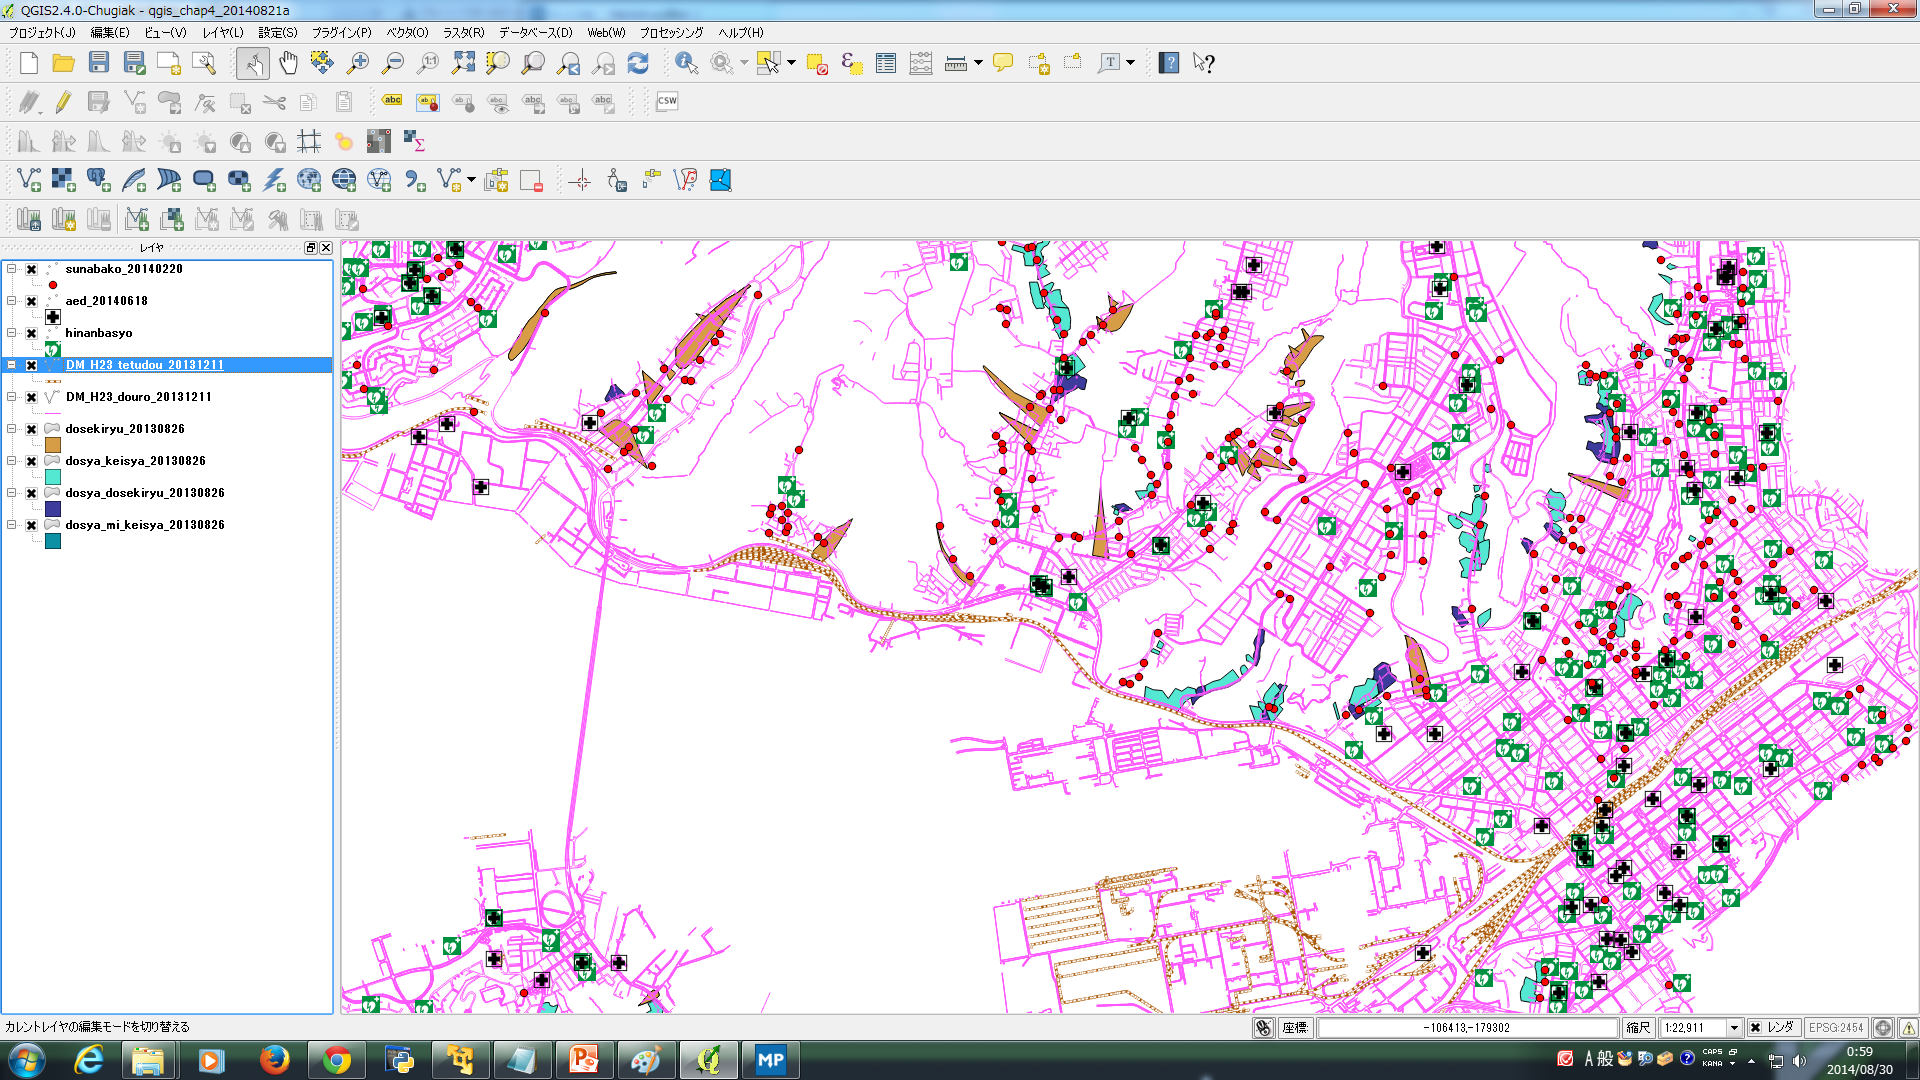
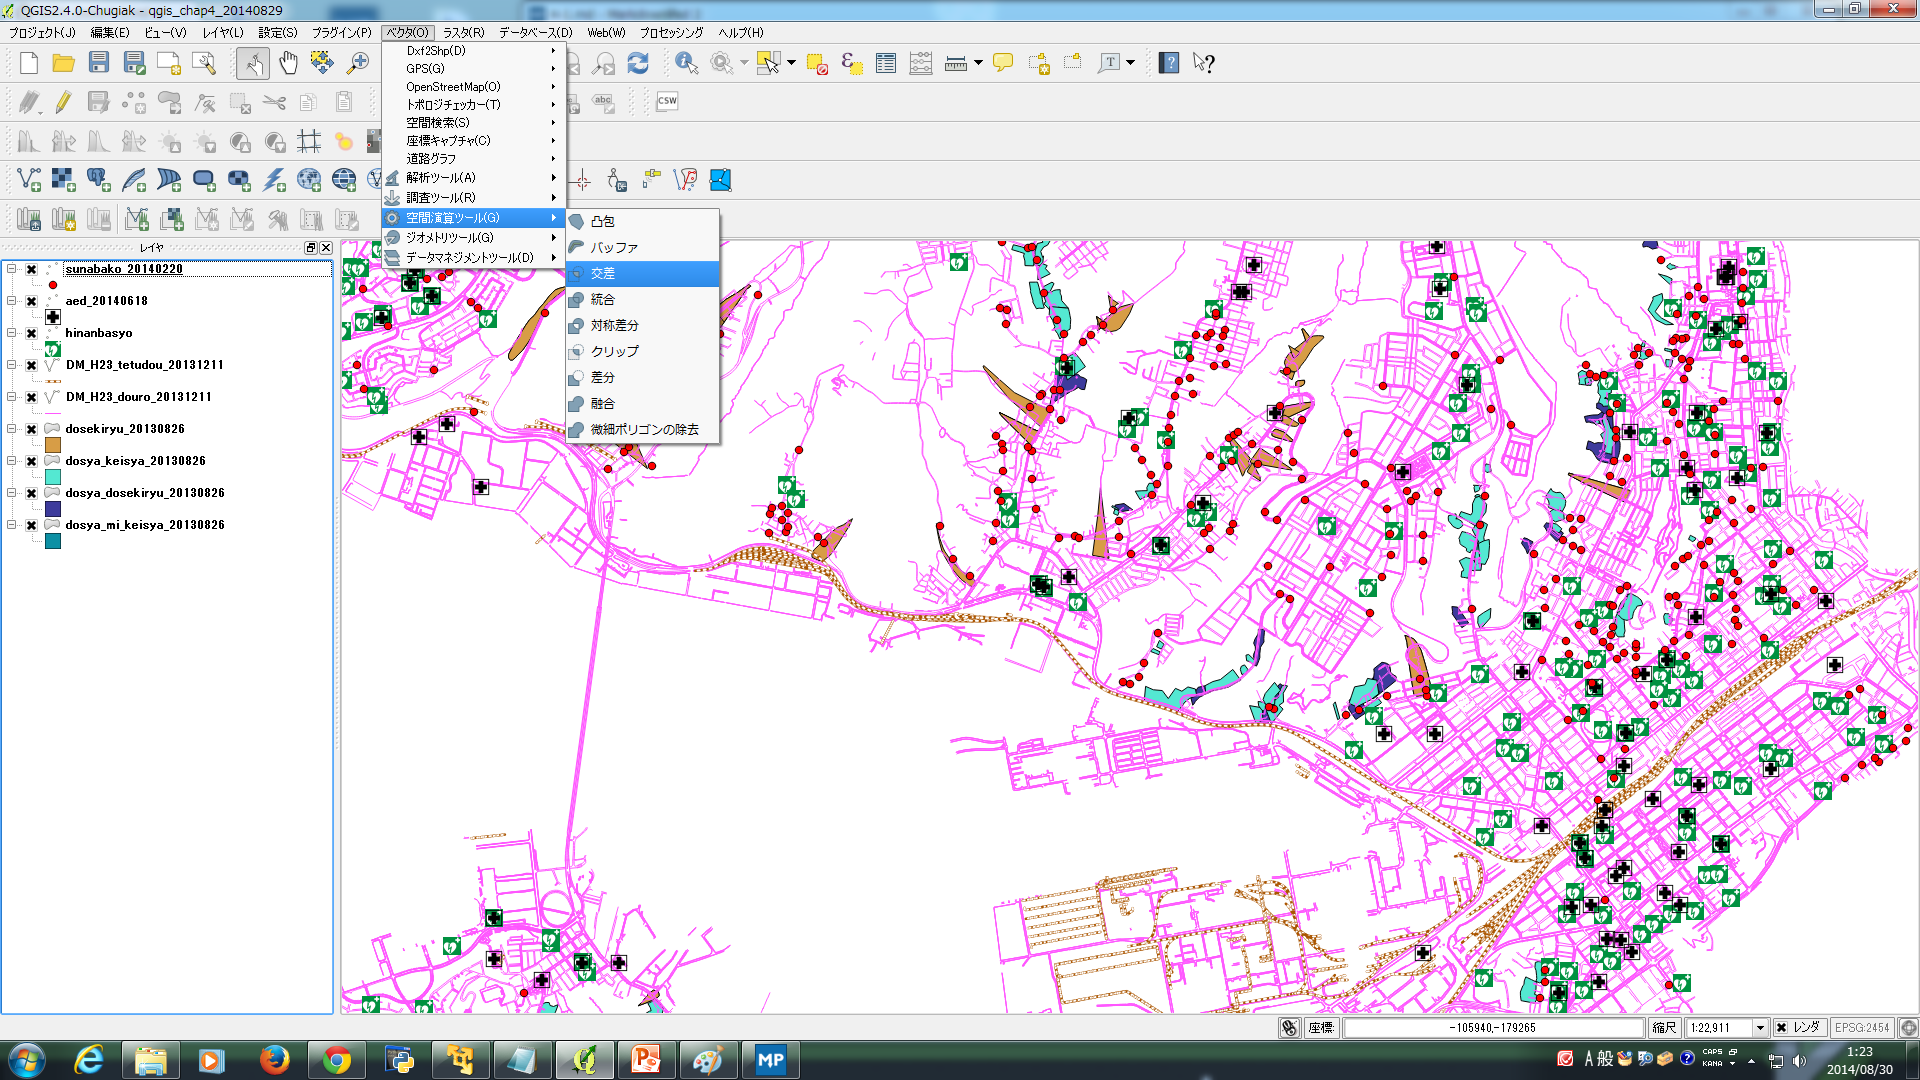
キャプチャ差し替え

diff --git a/4/4-1.md b/4/4-1.md
@@ -69,7 +69,7 @@
 図7 [SVG_gisicons]
 ![SVG_gisicons](img/4-1-6.png).
 
-aedのアイコンが図8 [cross_icon]になります。
+アイコンのプロパティ変更が反映され、aedのアイコンが図8 [cross_icon]になります。
 
 図8 [cross_icon]
 ![cross_icon](img/4-1-7.png).
@@ -114,12 +114,15 @@ SVGマーカーのアイコンが変わります。
 - DM_H23_douro_20131211.shp
 - DM_H23_tetsudo_20131211.shp
 
-レイヤパネル、DM_H23_tetsudo_20131211上で右クリック、レイヤプロパティ内で『Cycle path』をクリック後、『OK』をクリックしてください。
+図14 道路と鉄道プロパティ変更前MAP
+![道路と鉄道プロパティ変更前MAP](img/4-1-8.png).
 
-図13 鉄道ラインプロパティ定義
+レイヤパネルのDM_H23_tetsudo_20131211上で右クリック、レイヤプロパティ内で『Cycle path』をクリック後、『OK』をクリックしてください。
+
+図15 鉄道ラインプロパティ定義
 ![ラインプロパティ定義](img/4-1-8-tetsudo.png).
 
-図14 道路と鉄道MAP
+図16 道路と鉄道プロパティ変更後MAP
 ![ラインプロパティ定義](img/4-1-8-lines.png).
 
 
@@ -134,13 +137,8 @@ SVGマーカーのアイコンが変わります。
 - dosya_dosekiryu_20130826.shp
 - dosya_mi_keisya_20130826.shp
 
-図15 [土石流]
+図17 [土石流]
 ![土石流](img/4-1-9.png).
-
-上図のように表示されたかと思います。また、下図に示したようにポリゴンのレイヤはレイヤパネル上では四角形で表現されています。
-
-図16 [レイヤパネル3]
-![レイヤパネル3](img/4-1-8.png).
 
 さて、ただ表示するだけでは、あまり意味がないので土砂災害が起こった場合に、通行できなくなる可能性がある区間を算出して描画してみましょう。
 
@@ -153,30 +151,30 @@ SVGマーカーのアイコンが変わります。
 - クリップ
  - 2つのレイヤの共通部分が新しいレイヤとして作成される。結果のジオメトリは先に指定したレイヤの属性値だけが保持される。
 
-図17
+図18
 ![空間演算](img/4-1-10.png).
 
 交差をクリックすると、以下のようなウィンドウが開きます。
 
-図18
+図19
 ![交差window](img/4-1-11.png).
 
 重ね合わせたいレイヤを二つ選択すれば良いです。当然ですが、入力ベクタレイヤと交差レイヤに同じレイヤを選択しないでください。共通部分のくり抜いたレイヤは、新規のシェープファイルとして定義されるので、『ブラウズ』をクリックして保存先となるディレクトリを選択してください。
 
-図19
+図20
 ![保存先ディレクトリ](img/4-1-12.png).
 
 新規に作成されるシェープファイルに名前を付けて保存します。後々分かりにくくならないように、シンプルな命名規則のものがいいでしょう。今回はmuroran_dataディレクトリの中に、ファイル名を｛douro_dosekiryu.shp｝として保存しました。
 
 OKボタンを押すと、新規シェープファイルの作成が始まります。
 
-図20
+図21
 ![新規shpファイル作成](img/4-1-13.png).
 
 
 新規に作成した、douro_dosekityu.shpを新たに追加してみます。
 
-図21
+図22
 ![土石流被災道路](img/4-1-14.png).
 
 図中の赤線部分の道路は、土石流の危険地域と重複する道路であることが分かるかと思います。
@@ -188,30 +186,31 @@ OKボタンを押すと、新規シェープファイルの作成が始まりま
 
 を読み込んでください。
 
-図22
+図23
 ![浸水深](img/4-1-15.png).
 
 レイヤパネルで右クリックを行い【プロパティ】を選択してください。
-図23
+図24
 ![浸水深さプロパティ](img/4-1-16.png).
 
 レイヤプロパティウィンドウが開くので、図18『共通シンボル』をクリックし、図19『分類された』に変更してください。
-図24
-![浸水深さプロパティ_共通シンボル](img/4-1-17.png).
 図25
+![浸水深さプロパティ_共通シンボル](img/4-1-17.png).
+図26
 ![浸水深さプロパティ_分類された](img/4-1-18.png).
 
 基本的に単一の指標を色相別に分解して表示する場合は、単一の色階調を選択してください。今回は、Bluesを選択しました。
-図26
+図27
 ![色階調](img/4-1-19.png).
 
 『分類』をクリックすると、図21の様に水深によって色分けされます。
-図27
+図28
 ![色階調分類](img/4-1-20.png).
 
 『OK』をクリックします。
 読み込んだ水深のデータが水深別に色分けされ、地図ビューに反映され図22のようになります。
 
+図29
 ![色階調分類地図表示](img/4-1-21.png).
 
 なお、国土交通省 国土技術政策総合研究所の発表では、浸水深の目安を以下のように発表しています。
